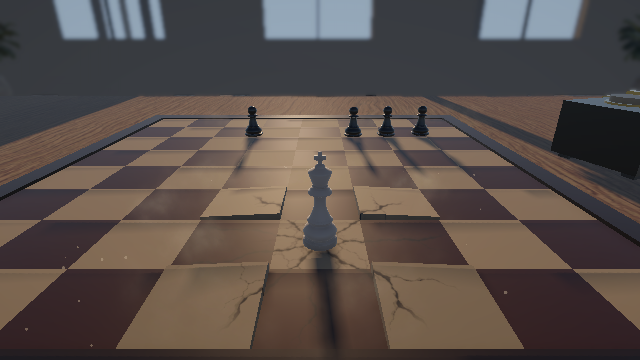
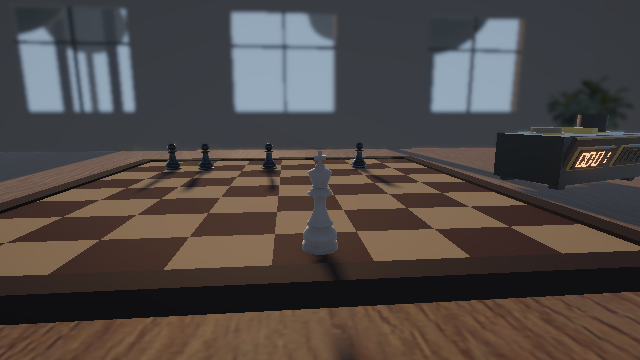
Classroom board: no square-on-square shadow stripes, matte squares under the low sun
- Board squares and frame stop casting shadows in the classroom (pieces still shade the board), new ring
  squares included
- Squares go matte (per-renderer smoothness 0.08) so the low sun doesn't glare off them
- Sun gets its own shadow biases (depth 1.2, normal 1.4) for the long shadow distance

diff --git a/Assets/Scripts/Core/ClassroomAmbience.cs b/Assets/Scripts/Core/ClassroomAmbience.cs
@@ -60,6 +60,45 @@ namespace KingLastPiece
                 if (savedShadowDistance < 0f) savedShadowDistance = urp.shadowDistance;
                 urp.shadowDistance = shadowDistance;
             }
+            if (Application.isPlaying) CalmTheBoard();
+        }
+
+        [Tooltip("Board squares' smoothness under the low sun (the hall's polished squares glare in it).")]
+        public float boardSmoothness = 0.08f;
+        [Tooltip("Sun shadow biases: the low sun over a long shadow distance streaks flat surfaces without them.")]
+        public float sunDepthBias = 1.2f, sunNormalBias = 1.4f;
+
+        static readonly int SmoothnessId = Shader.PropertyToID("_Smoothness");
+
+        /// <summary>
+        /// The board under a 14° sun: its squares (flat, side by side) shadowing one another drew stripes across them,
+        /// and their polish threw a hard glare. Squares and frame stop casting shadows (pieces still shade the board),
+        /// the squares go matte (per renderer, the shared materials stay as they are), and the sun gets more shadow
+        /// bias.
+        /// </summary>
+        public void CalmTheBoard()
+        {
+            var board = FindFirstObjectByType<ArenaBoard>();
+            if (board != null)
+            {
+                var mpb = new MaterialPropertyBlock();
+                foreach (var r in board.GetComponentsInChildren<Renderer>(true))
+                {
+                    if (r.transform.IsChildOf(transform)) continue;   // the classroom itself
+                    r.shadowCastingMode = UnityEngine.Rendering.ShadowCastingMode.Off;
+                    r.GetPropertyBlock(mpb);
+                    mpb.SetFloat(SmoothnessId, boardSmoothness);
+                    r.SetPropertyBlock(mpb);
+                }
+            }
+            foreach (var l in FindObjectsByType<Light>(FindObjectsSortMode.None))
+            {
+                if (l.type != LightType.Directional) continue;
+                var data = l.GetComponent<UniversalAdditionalLightData>();
+                if (data != null) data.usePipelineSettings = false;
+                l.shadowBias = sunDepthBias;
+                l.shadowNormalBias = sunNormalBias;
+            }
         }
 
         void OnDestroy()

diff --git a/Assets/Scripts/Core/ArenaBoard.cs b/Assets/Scripts/Core/ArenaBoard.cs
@@ -82,6 +82,8 @@ namespace KingLastPiece
             // The classroom's chess table (EndlessMode) widens with the board.
             var table = FindFirstObjectByType<ChessTableFit>();
             if (table != null) table.Fit();
+            var ambience = FindFirstObjectByType<ClassroomAmbience>();
+            if (ambience != null) ambience.CalmTheBoard();   // the new ring of squares too
             BoardFx.Register(Grid);
         }
 
